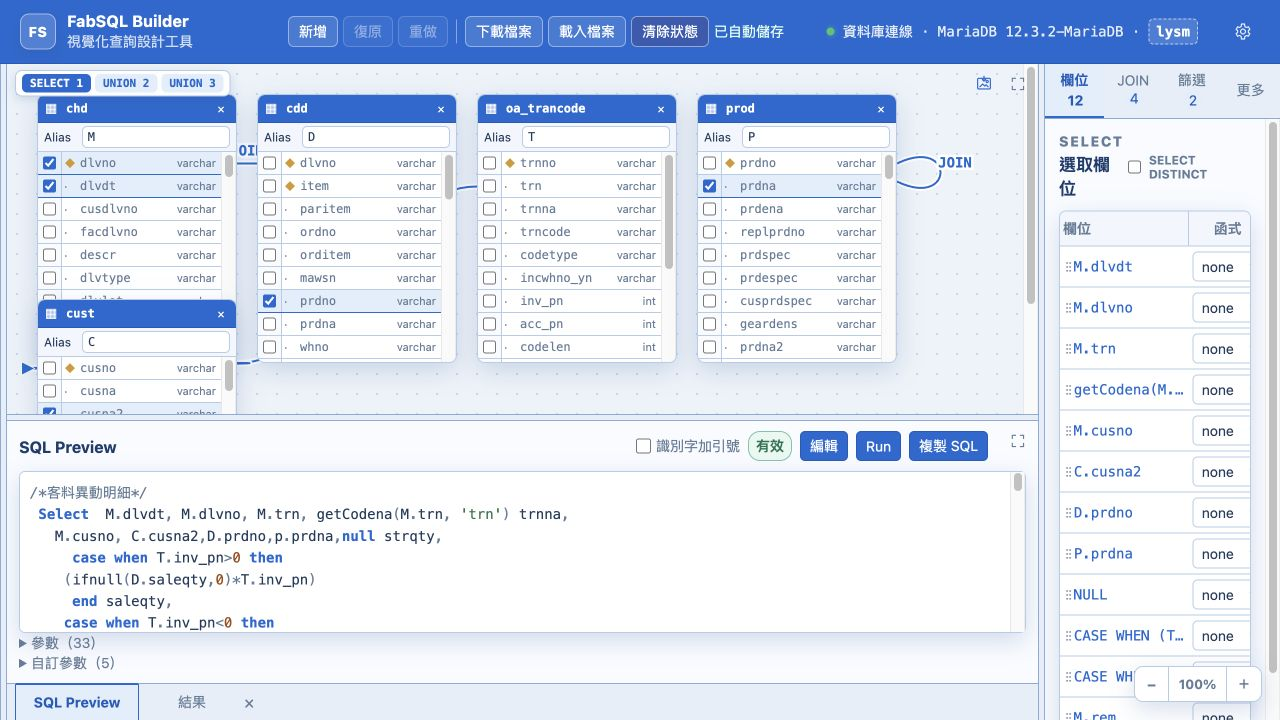
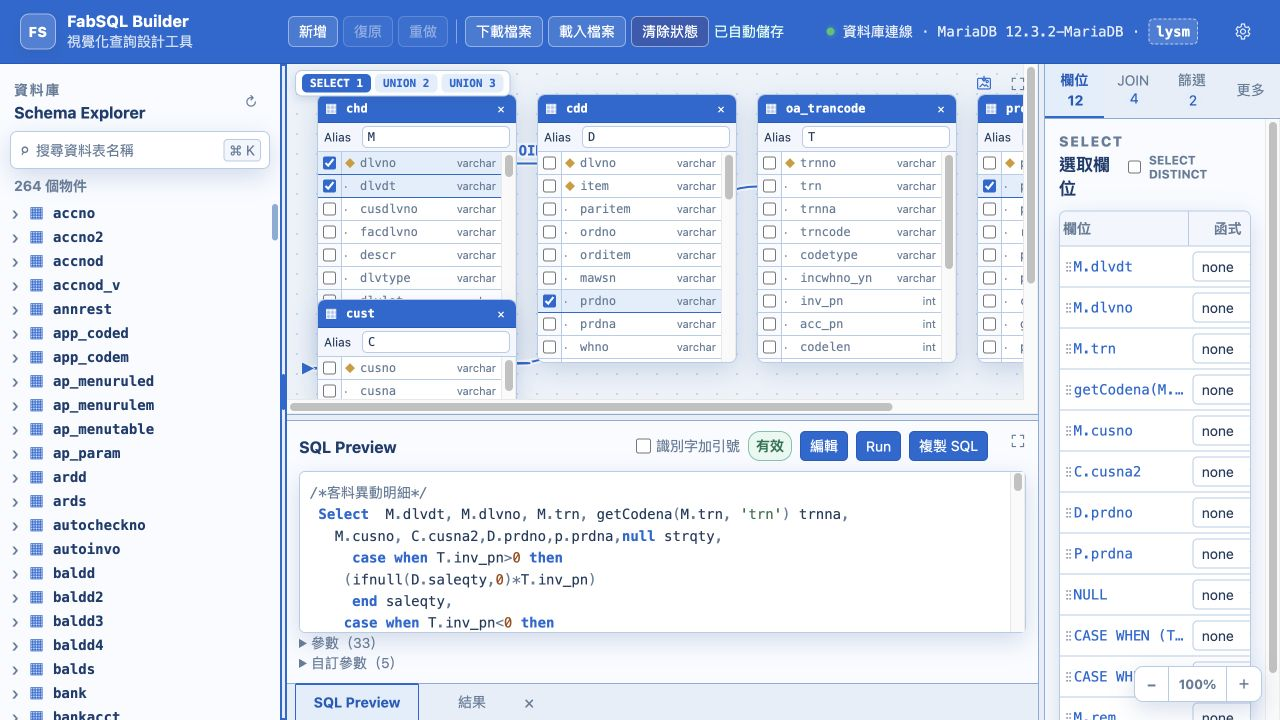
docs: show schema explorer in README screenshot

Changed region(s): [[0.0, 0.0917, 0.8125, 1.0], [0.5938, 0.7028, 0.6562, 0.7333], [0.3438, 0.9472, 0.375, 0.9778]]

diff --git a/README.md b/README.md
@@ -3,7 +3,10 @@
 使用 Vue 3、TypeScript、Fastify 與 MariaDB metadata 建立的視覺化
 `SELECT` Query Builder。
 
-![FabSQL Builder 關聯圖與 SQL Preview](docs/images/fabsql-builder.jpg)
+下圖同時顯示左側 Schema Explorer 資料表清單、中央關聯圖、
+SQL Preview 與右側 Query Inspector。
+
+![FabSQL Builder 完整工作台](docs/images/fabsql-builder.jpg)
 
 目前停點：2026-07-29。最新變更與未完成事項請見
 [WORKLOG.md](./WORKLOG.md)。
